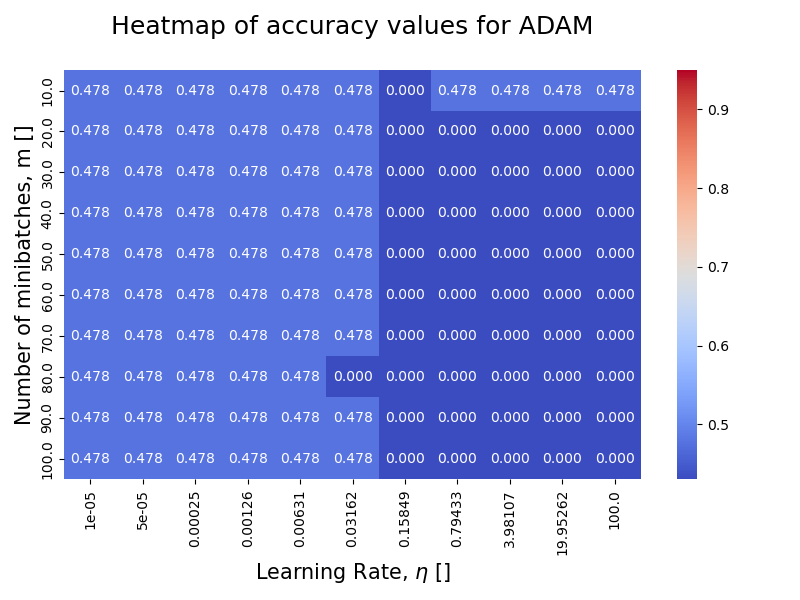
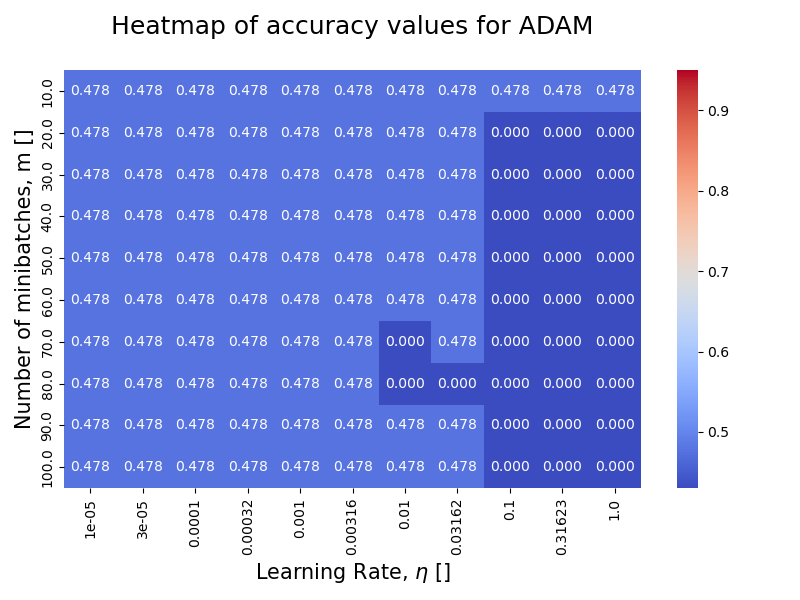
didnt actually save the plots I made, now they should be fine

diff --git a/task_d_OP.py b/task_d_OP.py
@@ -1153,7 +1153,7 @@ if __name__ == "__main__":
     
     m_list = np.linspace(10, 100, 10)
     #eta_vals = np.logspace(-3, -2, 11)
-    eta_vals = np.logspace(-5, 2, 11)
+    eta_vals = np.logspace(-5, 0, 11)
     #eta_vals = np.logspace(eta_vals, 3)
     eta_vals = np.round(eta_vals, 5)
     
